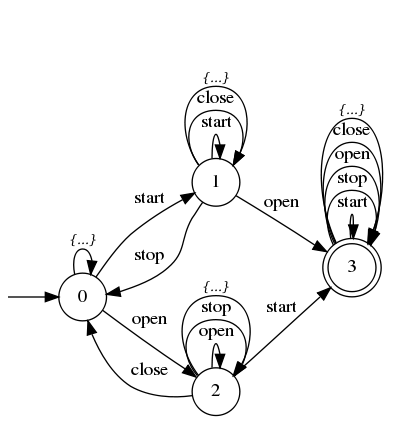
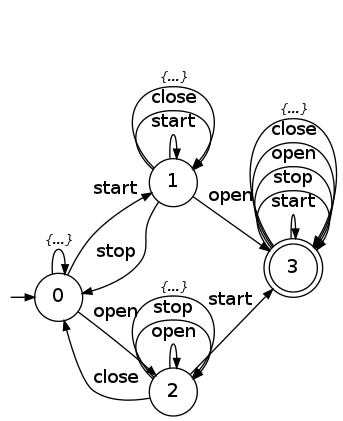
Cleaning of Chapter 2 cont.

Changed region(s): [[0.0292, 0.1544, 0.9913, 1.0]]

diff --git a/writing/src/2-framework/4-scenarios.tex b/writing/src/2-framework/4-scenarios.tex
@@ -10,27 +10,30 @@ We consider \emph{positive} scenarios, that are examples of behaviors that the s
 
 As in~\cite{Uchitel:2004}, MSCs are given a trace semantics. We will consider that a MSC defines a set of traces; the latter are expressed through a LTS. Two kinds of traces are considered: those from the local perspective of a single timeline and those from the global perspective of the complete MSC. We discuss each of these views in turn.
 
-As time in a MSC evolves from top to bottom, the order in which events are sent and received along a particular timeline defines a total order. Therefore, from the perspective of a single agent, a MSC defines one simple trace; such trace is a \emph{maximal} trace in that it includes all events in which the agent participates. This trace and all its suffixes can be captured by a LTS. For example, the traces defined by the timeline of the \artifact{Controller} in the MSC of Fig.~\ref{image:train-scenario-all-agents} are precisely captured by the LTS in Fig.~\ref{image:local-traces-lts}. Given a MSC $M$ and an agent $Ag$, we will denote such LTS by $M_{\downarrow Ag}$.
+As time in a MSC evolves from top to bottom, the order in which events are sent and received along a particular timeline defines a total order. Therefore, from the perspective of a single agent, a MSC defines one simple trace; such trace is a \emph{maximal} trace in that it includes all events in which the agent participates. This trace and all its suffixes can be captured by a LTS. Given a MSC $M$ and an agent $Ag$, we will denote such LTS by $M_{\downarrow Ag}$.
 
-\vspace{0.5cm}
-\begin{figure}[H]\centering
+For example, the traces defined by the timeline of the \artifact{Controller} in the MSC of Fig.~\ref{image:train-scenario-all-agents} are precisely captured by the LTS in Fig.~\ref{image:local-traces-lts}. 
+
+\begin{figure}\centering
 \scalebox{0.45}{\includegraphics{src/2-framework/images/local-trace}}
-\caption{LTS capturing the traces of the MSC in Fig.~\ref{image:train-scenario-all-agents} from the local point of view of the \artifact{Controller}.\label{image:local-traces-lts}}
+\caption{LTS capturing the traces of the MSC in Fig.~\ref{image:train-scenario-all-agents} from the local perspective of the \artifact{Controller} agent.\label{image:local-traces-lts}}
 \end{figure}
 
 When looking at traces from the perspective of the whole MSC, two possibilities might be envisaged.
 
-\noindent \textbf{Total event ordering} -- one might consider that a MSC defines a simple \emph{maximal} trace where all events appear according to the graphical top-down ordering. In our example, such trace would be
+\noindent \textbf{Total event ordering} -- One might consider that a MSC defines a simple \emph{maximal} trace where all events appear according to the graphical top-down ordering. In the example of Fig.~\ref{image:train-scenario-all-agents}, such trace would be
 
 \begin{center}\artifact{<start-signal, start, alarm-pressed, \ldots, open>}\end{center} 
 
-A MSC would then define a total order among all events. This leads to a simple and straightforward, yet limited, trace semantics for MSCs.
+A MSC would then define a total order among all events. This leads to a straightforward but limited trace semantics for MSCs.
 
-\noindent \textbf{Partial event ordering} -- when considering concurrent systems, a partial ordering among events appears more adequate~\cite{ITU:1996, Uchitel:2003}. Consider for example the events \artifact{start-signal} and \artifact{alarm-pressed} at the beginning of the MSC shown in Fig.~\ref{image:train-scenario-all-agents}. These two events capture unrelated message passing between different agents; therefore, they can not be considered strictly ordered over time -- e.g. the passenger might push the alarm button when the \artifact{start-signal} is already sent but before \artifact{start} has been propagated; or maybe even before \artifact{start-signal}; and so on. 
+\noindent \textbf{Partial event ordering} -- When considering concurrent systems, a partial ordering among events appears more adequate~\cite{ITU:1996, Uchitel:2003}. 
 
-To account for such situations, one has to consider that the traces defined by a MSC are \emph{linearizations} of the partial order among MSC events. In other words, linearizations capture all possible sequences of events that respect the total ordering defined by the timelines. We do not formalize the structure of Message Sequence Charts and their linearizations here, and refer to~\cite{Uchitel:2003} for such mathematical characterization. 
+Consider for example the events \artifact{start-signal} and \artifact{alarm-pressed} at the beginning of the MSC shown in Fig.~\ref{image:train-scenario-all-agents}. These two events capture unrelated message passing between different agents; therefore, they can not be considered strictly ordered over time -- e.g. the passenger might push the alarm button when the \artifact{start-signal} is already sent but before \artifact{start} has been propagated; or maybe even before \artifact{start-signal}; and so on. 
 
-The set of traces obtained from the local and global perspectives are related as follows:
+To account for such situations, one has to consider that the traces defined by a MSC are \emph{linearizations} of the partial order among MSC events \cite{Alur:2000}. In other words, linearizations capture all possible sequences of events that respect the total ordering defined by the timelines. We do not formalize the structure of Message Sequence Charts and their linearizations here, and refer to~\cite{Uchitel:2003} for such mathematical characterization. 
+
+Let $M$ denote a MSC. The set of traces it defines from the local and global perspectives are related as follows:
 \begin{align}
 \mathcal{L}_{total}(M) & \subseteq \mathcal{L}_{partial}(M) 
 \label{equation:msc-composition-1} \\
@@ -39,15 +42,15 @@ The set of traces obtained from the local and global perspectives are related as
 \end{align}
 
 \begin{itemize}
-\item Relation \ref{equation:msc-composition-1} states that the set of traces under a partial ordering includes those under a total ordering. Clearly, the model with partial ordering is more general than the one with total ordering. This means that everything that is true for the former is certainly true for the latter as well. Unless stated otherwise, we will therefore assume the general framework with partial ordering. In particular, we will no longer make the $partial$ and $total$ subscripting explicit when stating other language relations in the following sections.
+\item Relation (\ref{equation:msc-composition-1}) states that the set of traces under a partial ordering includes those under a total ordering. Clearly, the model with partial ordering is more general than the one with total ordering. This means that everything that is true for the former is also true for the latter. Unless stated otherwise, we will therefore assume the general framework with partial ordering. In particular, we will no longer make the $partial$ and $total$ subscripting explicit when stating other language relations in the following sections.
 
-\item Relation \ref{equation:msc-composition} provides a simple way of computing all linearizations of a MSC as an acyclic transition system through LTS composition. Such LTS is illustrated in Fig.~\ref{image:msc-linearizations} for the MSC in Fig.\ref{image:train-scenario-all-agents}. As shown there, the latter accepts six different linearizations due to the possible interleavings of its first four events. By construction, such LTS has only one initial state (the leftmost one) and only one terminating state (the rightmost one). This allows us to loosely refer to \emph{the} terminating state of a MSC with a precise underlying meaning; it refers to the LTS capturing its traces.
+\item Relation (\ref{equation:msc-composition}) provides a way of computing all linearizations of a MSC as an acyclic transition system through LTS composition. Such LTS is illustrated in Fig.~\ref{image:msc-linearizations} for the MSC in Fig.\ref{image:train-scenario-all-agents}. As shown there, the latter accepts six different linearizations due to the possible interleavings of its first four events. By construction, such LTS has only one initial state (the leftmost one) and only one terminating state (the rightmost one).
 \end{itemize}
 
-Note that the number of linearizations of a MSC is exponential in the number of events in the worst case. This is representative of distributed systems where agents generally behave asynchronously. Linearizations capture all possible interleavings of events in exactly the same way as LTS composition in Section~\ref{subsection:lts-composition}. In the worst case where agents do not synchronize at all, the number of interleavings is exponential. By focussing specifically on agent collaborations, MSCs often have only a few linearizations.
+Note that the number of linearizations of a MSC is exponential in the number of events in the worst case. This is representative of distributed systems where agents generally behave asynchronously. Linearizations capture all possible interleavings of events in exactly the same way as LTS composition in Section~\ref{subsection:lts-composition}. In the worst case where agents do not synchronize at all, the number of interleavings is exponential. In practice, as they specifically illustrate agent interactions, MSCs often have only a few linearizations.
 
 \begin{figure}\centering
-\scalebox{0.31}{\includegraphics{src/2-framework/images/linearizations}}
+\scalebox{0.29}{\includegraphics{src/2-framework/images/linearizations}}
 \caption{LTS capturing all event linearizations of the MSC in Fig.~\ref{image:train-scenario-all-agents}. Here, \artifact{alarm-pressed} is abbreviated as \artifact{a-pressed} and \artifact{sig.} stands for \artifact{signal}. \label{image:msc-linearizations}}
 \end{figure}
 
@@ -55,7 +58,8 @@ Note that the number of linearizations of a MSC is exponential in the number of 
 
 Positive MSCs capture examples of behavior that the system is expected to exhibit. In addition, it is often convenient to specify examples of behavior that the system may \emph{not} exhibit. Proscribed behaviors are illustrated through negative MSCs~\cite{Uchitel:2002, Uchitel:2004}. A negative MSC is a scenario whose last event is prohibited, as depicted by a crossed arrow below a dashed line. Fig.~\ref{image:train-negative-scenario} shows a negative scenario where the \artifact{Controller} may not open doors immediately after having started the train.
 
-\begin{figure}\centering
+\begin{figure}
+\centering
 \scalebox{0.75}{
   \includegraphics[trim=2mm 2mm 2mm 2mm, clip]{src/2-framework/images/train-negative-scenario}
 }
@@ -64,32 +68,41 @@ Positive MSCs capture examples of behavior that the system is expected to exhibi
 
 More precisely, a negative MSC is a pair $(P,e)$ where $P$ is a positive MSC and $e$ is a single event label. The positive scenario prefix $P$ is called the $precondition$ and $e$ the \emph{prohibited event}. The intuitive semantics is that, once the precondition has occurred from the system's initial state, $e$ may not be the very \emph{next} event in the system. 
 
-We make this semantics fully precise now. First, the precondition of a negative MSC $N = (P,e)$ is a positive MSC; it therefore defines a set of positive traces $\mathcal{L}^{+}$:
+We now make the trace semantics of negative MSCs precise. First, the precondition of a negative MSC $N = (P,e)$ is a positive MSC; it therefore defines a set of positive traces $\mathcal{L}^{+}$:
 \begin{align}
 \mathcal{L}^{+}(N) = \mathcal{L}(P)
 \end{align}
 
 As in previous section, we consider the general framework with partial ordering here.
 
-\noindent In addition, a negative MSC $N = (P,e)$ defines a set of negative traces $\mathcal{L}^{-}$:
+A negative MSC $N = (P,e)$ defines a set of negative traces $\mathcal{L}^{-}$:
 \begin{align}
-\mathcal{L}^{-}(N) &= \{~w.e \mid w \in mt(\mathcal{L}(P))~\}
+\mathcal{L}^{-}(N) &= \{~we \mid w \in mt(\mathcal{L}(P))~\}
 \end{align}
 \noindent where $mt(\mathcal{L})$ was seen to denote the set of maximal traces of the language $\mathcal{L}$ (see Section~\ref{section:background-lts-and-regular-languages}).
 
 Negative traces are thus maximal traces of the precondition concatenated with the label of the proscribed event. Note that the precondition must occur completely for the prohibited event to be taken into account. In other words, partial orderings between the prohibited event and those in the precondition are not considered. This is the intended meaning of the dashed line separating them~\cite{Uchitel:2004}. 
 
-Note that the set of negative traces cannot be captured through a LTS only. This is because $\mathcal{L}^{-}(N)$ is not prefix-closed (see Section~\ref{section:background-lts-and-regular-languages}). Negative scenarios are sometimes captured by a LTS extended with an error state~\cite{Uchitel:2004}. Alternatively, we may use a standard automaton that makes a distinction between accepting and non-accepting states. 
+Note that the negative language of a negative MSC cannot be captured through a pure LTS. This is because $\mathcal{L}^{-}(N)$ is not prefix-closed (see Section~\ref{section:background-lts-and-regular-languages}). Negative scenarios are sometimes captured by a LTS extended with an error state, see Fig.~\ref{image:negative-trace-lts} where the error state is depicted in black. Alternatively, we may use a standard automaton that makes a distinction between accepting and non-accepting states.
+
+\begin{figure}\centering
+\scalebox{0.45}{
+  \includegraphics[trim=1mm 1mm 1mm 1mm, clip]{src/2-framework/images/negative-trace-lts}
+}
+\caption{Negative traces for the negative MSC of Fig.~\ref{image:train-negative-scenario}, captured with a LTS extended with an error state\label{image:negative-trace-lts}}
+\end{figure}
 
 \subsection{Scenario collections\label{subsection:background-scenario-collections}}
 
 Systems are generally illustrated through multiple positive and negative scenarios. We will therefore consider scenario collections $Sc = (S^+,S^-)$ where $S^+$ and $S^-$ are finite, possibly empty, sets of positive MSCs and negative MSCs, respectively.
 
-The positive and negative languages captured by a scenario collection $Sc = (S^+,S^-)$ are defined via the union operator on languages, taking into account the fact that negative scenarios define positive traces in addition to negative ones:
-\begin{align}
+An important assumption when using scenario collections is that all scenarios, positive or negative, start in the same system state.
+
+Under this assumption, the trace semantics of a scenario collection is captured via the union operator on languages. A scenario collection $Sc = (S^+,S^-)$ defines a positive and a negative language. For the former, the definition below takes into account the fact that negative scenarios define positive traces in addition to negative ones:
+\begin{align*}
 \mathcal{L}^+(Sc) &= \bigcup_{P \in S^+} \mathcal{L}(P)~~\cup~~\bigcup_{N \in S^{-}} \mathcal{L}^{+}(N) \\
 \mathcal{L}^-(Sc) &= \bigcup_{N \in S^-} \mathcal{L}^{-}(N)
-\end{align}
+\end{align*}
 
 \subsection{Flowcharting scenarios in high-level message sequence charts\label{subsection:background-hmsc}}
 
@@ -103,43 +116,51 @@ A high-level Message Sequence Chart (hMSC) is a directed graph where each node r
 \caption{A high-level Message Sequence Chart for the train system.\label{image:train-hmsc}}
 \end{figure}
 
-The two following sections define the trace semantics for hMSCs. We first restrict to hMSCs composed of bMSCs only; then, taking finer-grained hMSCs into account. 
+The two following sections define the trace semantics of hMSCs. We first restrict to hMSCs composed of bMSCs only before taking finer-grained hMSCs into account. 
 
 \subsubsection*{hMSCs composed from bMSCs only\label{subsubsection:hMSC-bMSC-only}}
 
 A trace semantics for hMSCs provides an answer to the question: \emph{what traces are captured by a hMSC?} This apparently simple question has a fairly complex answer. The reasons are manifold; we summarize here then slightly extend the characterization provided in~\cite{Uchitel:2004}.
 
-\noindent \textbf{Bounding hMSCs} -- Some hMSCs do not define regular languages, as explained in \cite{Henriksen:2000}; therefore they have sets of traces that cannot be specified through a LTS. Our framework must therefore be restricted to regular hMSCs. Under a total ordering of events inside bMSCs, hMSCs are regular. Under a partial ordering, a sufficient condition for a hMSC to be regular is that it does not contain a cycle in which two disjoint sets of agents interact independently of each other. We will focus on such \emph{bounded} hMSCs in the sequel.
+\noindent \textbf{Bounding hMSCs} -- As explained in \cite{Henriksen:2000}, some hMSCs do not define regular languages. In that case, they have sets of traces that cannot be captured by a LTS. Our framework must therefore be restricted to regular hMSCs. Under a total ordering of events inside bMSCs, hMSCs are regular. Under a partial ordering, a sufficient condition for a hMSC to be regular is that it does not contain a cycle in which two disjoint sets of agents interact independently of each other. We will make the assumption of \emph{bounded} hMSCs in the sequel.
 
 \noindent \textbf{Composing bMSCs} -- In addition to the partial or total ordering of events in bMSCs, two possibilities arise as to how a system evolves from a bMSC to another inside a hMSC. The first one, called \emph{strong sequential composition}, assumes that all agents wait until all events of a bMSC have occurred before moving to the next one. This means that there is an implicit synchronization scheme used by the agents to know when a scenario has been completed. The other one, called \emph{weak sequential composition}, allows an agent to move from a bMSC to another one without having to synchronize with the other agents. 
 
 In view of the independence between the assumptions of partial/total event ordering and weak/strong sequential composition, four combinations actually exist. To keep things simple enough and avoid bizarre concurrency models\footnote{in particular, such models are very sensitive to the decomposition of a hMSC into bMSCs. For example splitting a bMSC node into smaller bMSCs might change the set of accepted traces of the hMSC.}, we do not consider partial (resp. total) ordering with strong (resp. weak) sequential composition. In the sequel, therefore, strong (resp. weak) sequential composition will entail total (resp. partial) ordering of MSC events. In the sequel, we will refer to this as the \emph{stable composition} hypothesis. 
 
-\noindent \textbf{Trace semantics} -- Under the assumption of bounded hMSC with stable composition, the trace analysis for hMSCs is very similar to MSCs. It leads to language relations similar to the ones given for the latter in Section~\ref{subsection:background-positive-scenarios} -- see relation (\ref{equation:msc-composition}) in particular:
+\noindent \textbf{Trace semantics} -- Under the assumption of bounded hMSC with stable composition, the trace analysis for hMSCs is very similar to MSCs. It leads to language relations similar to the ones given for the latter in Section~\ref{subsection:background-positive-scenarios} -- see (\ref{equation:msc-composition-1}) and (\ref{equation:msc-composition}) in particular:
 \begin{align}
 \mathcal{L}_{strong}(H) & \subseteq \mathcal{L}_{weak}(H) \\
 \mathcal{L}_{weak}(H) & \subseteq \mathcal{L}(H_{\downarrow Ag_1} \parallel \ldots \parallel H_{\downarrow Ag_n})
 \label{equation:hsmc-traces-by-agent-composition}
 \end{align}
 
-The sets of traces $\mathcal{L}_{strong}(H)$ and $\mathcal{L}_{weak}(H)$ result from the scenarios ``produced'' by the hMSC. Consider a finite path in the hMSC. Concatenating the bMSCs along this path yields a single MSC. 
+The sets of traces $\mathcal{L}_{strong}(H)$ and $\mathcal{L}_{weak}(H)$ result from the scenarios that can be ``produced'' by the hMSC under strong and weak sequential composition, respectively. Such ``production'' simply results from the concatenation of bMSCs alongs paths admissible by the hMSC.
 
-For example, concatenating \artifact{Starting train}, \artifact{Pressing alarm} and \artifact{Stopping \& Opening the doors} in the hMSC of Fig.~\ref{image:train-hmsc} leads to the MSC of Fig.~\ref{image:train-scenario-all-agents}. 
+For example, concatenating the bMSCs \emph{Starting train}, \emph{Pressing alarm} and \emph{Stopping} \& \emph{Opening the doors} in the hMSC of Fig.~\ref{image:train-hmsc} leads to the MSC of Fig.~\ref{image:train-scenario-all-agents}. 
 
-As introduced in Section~\ref{subsection:background-positive-scenarios}, such MSC $M$ defines the set of traces $\mathcal{L}_{total}(M)$ and $\mathcal{L}_{partial}(M)$. To define the traces produced by a hMSC $H$, we need to consider all such possible MSCs: 
-\begin{align}
+Such MSC $M$ defines the set of traces $\mathcal{L}_{total}(M)$ and $\mathcal{L}_{partial}(M)$, see Section~\ref{subsection:background-positive-scenarios}. The trace semantics of a hMSC $H$ is defined in terms of all possible MSCs that it produces: 
+\begin{align*}
 \mathcal{L}_{strong}(H) &= \bigcup_{M \in H} \mathcal{L}_{total}(M) \\
 \mathcal{L}_{weak}(H) &= \bigcup_{M \in H} \mathcal{L}_{partial}(M)
-\end{align}
+\end{align*}
 \noindent where $M \in H$ means ``the MSC $M$ can be produced by a path in $H$''. The language $\mathcal{L}_{weak}$ corresponds to the notion of \emph{trace model of a hMSC} in~\cite{Uchitel:2004}.
 
-One can consider another way of computing the set of traces defined by a hMSC. In this alternative way, the local perspective of the agent timelines is taken into account, similarly to what has been done for MSCs. This leads to the rightmost part of the relations between hMSC languages in~(\ref{equation:hsmc-traces-by-agent-composition}). There, hMSC traces are computed as the composition of local agent traces $H_{\downarrow Ag_i}$. The composition of such LTS for each agent corresponds to the notion of \emph{minimal architecture model} in~\cite{Uchitel:2004}. We denote it by $\mathcal{L}_{arch}(H)$:
+Another way of defining the set of traces of a hMSC consists in considering the local perspective of the agent timelines. This is similar to what has been done for MSCs in relation (\ref{equation:msc-composition}) and leads to the right term in~(\ref{equation:hsmc-traces-by-agent-composition}). There, hMSC traces are computed as the composition of local agent traces $H_{\downarrow Ag_i}$ (see below). The composition of such LTS for each agent corresponds to the notion of \emph{minimal architecture model} in~\cite{Uchitel:2004}. We denote it by $\mathcal{L}_{arch}(H)$:
 \begin{align}
 \mathcal{L}_{arch}(H) &= \mathcal{L}(H_{\downarrow Ag_1} \parallel \ldots \parallel H_{\downarrow Ag_n})
 \end{align}
 
-An algorithm for synthesizing the LTS modeling $\mathcal{L}_{arch}(H)$ may be found in~\cite{Uchitel:2004}. For a given agent $Ag_{i}$, the LTS $H_{\downarrow Ag_i}$ is synthesized by connecting the LTSs $M_{\downarrow Ag_i}$ corresponding to each bMSC $M$ with $\tau$ transitions, according to their possible continuations given by hMSC edges. This construction is illustrated in Fig.~\ref{image:train-controller-synthesis} for the hMSC of Fig.~\ref{image:train-hmsc} and the \artifact{Controller} agent. The resulting LTS can be further simplified by removing $\tau$ transitions and minimizing the LTS.  Thanks to the simplicity of the model with strong sequential composition, $\mathcal{L}_{strong}(H)$ can be computed in a very similar way. $\mathcal{L}_{weak}(H)$ is much harder to model as a LTS because the sequencing and synchronization of bMSCs must be constrained to fit the semantics. A synthesis algorithm can however be found in~\cite{Uchitel:2004}.
+To sum up, defining the trace semantics of a hMSC $H$ leads to considering three sets of traces, namely $\mathcal{L}_{strong}(H)$, $\mathcal{L}_{weak}(H)$ and $\mathcal{L}_{arch}(H)$. The former two consider the global perspective of the hMSC whereas the latter consider the local perspective of agent timelines. Moreover, $\mathcal{L}_{strong}(H)$ assumes a strong sequential composition of bMSC nodes with total event ordering whereas $\mathcal{L}_{weak}(H)$ and $\mathcal{L}_{arch}(H)$ both assume weak sequential composition and partial ordering. These three languages are related as follows:
+\begin{align*}
+&\mathcal{L}_{strong}(H) \subseteq \mathcal{L}_{weak}(H) \subseteq \mathcal{L}_{arch}(H)
+\end{align*}
 
+In practice, compositional algorithms allow capturing these three languages with LTS:
+\begin{itemize}
+\item An algorithm for synthesizing a LTS for $\mathcal{L}_{arch}(H)$ may be found in \cite{Uchitel:2003}. For a given agent $Ag_{i}$, the LTS $H_{\downarrow Ag_i}$ is synthesized by connecting the LTSs $M_{\downarrow Ag_i}$ corresponding to each bMSC $M$ with $\tau$ transitions, according to their possible continuations given by hMSC edges. 
+
+This construction is illustrated in Fig.~\ref{image:train-controller-synthesis} for the hMSC in Fig.~\ref{image:train-hmsc} and the \artifact{Controller} agent. The resulting LTS can be further simplified by removing $\tau$ transitions and minimizing the result.
 \vspace{0.4cm}
 \begin{figure}[H]\centering
 \scalebox{0.85}{
@@ -148,10 +169,15 @@ An algorithm for synthesizing the LTS modeling $\mathcal{L}_{arch}(H)$ may be fo
 \caption{Synthesis of the \emph{Controller} LTS from the hMSC of Fig.~\ref{image:train-hmsc}.\label{image:train-controller-synthesis}}
 \end{figure}
 
+\item Thanks to the simplicity of the model with strong sequential composition, $\mathcal{L}_{strong}(H)$ can be captured in a similar way. The linear event trace defined by each MSC is used instead of $M_{\downarrow Ag_i}$ in the algorithm above.
+
+\item The synthesis of a LTS for $\mathcal{L}_{weak}(H)$ is more complex because the sequencing and synchronization of bMSCs must be constrained to fit the semantics. A synthesis algorithm can be found in~\cite{Uchitel:2004}.
+\end{itemize}
+
 An important difference should be noted among the relations between MSC languages and those on hMSC languages. For similarity with hMSCs, let $\mathcal{L}_{arch}(M)$ denote an architecture model for MSCs:
-\begin{align}
+\begin{align*}
 \mathcal{L}_{arch}(M) = \mathcal{L}(M_{\downarrow Ag_1}\parallel\ldots\parallel M_{\downarrow Ag_n})
-\end{align}
+\end{align*}
 
 \noindent For a MSC $M$ and a hMSC $H$ the language relations are, respectively:
 \begin{align}
@@ -161,7 +187,7 @@ An important difference should be noted among the relations between MSC language
 
 Note the equality between $\mathcal{L}_{partial}(M)$ and $\mathcal{L}_{arch}(M)$ in (\ref{relation:msc-total-language}) and the set inclusion between $\mathcal{L}_{weak}(H)$ and $\mathcal{L}_{arch}(H)$ in (\ref{relation:hmsc-strong-language}). 
 
-The traces in $\mathcal{L}_{arch}(H) \setminus \mathcal{L}_{weak}(H)$ capture the set of \emph{implied} scenarios of a hMSC specification~\cite{Alur:2000, Uchitel:2004}. Implied scenarios occur when a system is designed globally while implemented component-wise. They capture traces that follow different paths in the hMSC when projected on individual agent timelines. Implied scenarios will be mostly ignored in the thesis; we further discuss this issue in Chapter~\ref{chapter:discussion}.
+The traces in $\mathcal{L}_{arch}(H) \setminus \mathcal{L}_{weak}(H)$ capture the set of \emph{implied} scenarios of a hMSC specification~\cite{Alur:2000, Uchitel:2004}. Implied scenarios occur when a system is designed globally while implemented component-wise. They capture traces that follow different paths in the hMSC when projected on individual agent timelines. Implied scenarios will be mostly ignored in the thesis; we further discuss them in Chapter~\ref{chapter:discussion}.
 
 \subsubsection*{hMSCs composed from finer-grained hMSCs\label{subsubsection:hMSC-with-sub-hMSC}}
 
@@ -169,11 +195,11 @@ A hMSC node may refer to a finer-grained hMSC instead of a bMSC. To take this in
 
 Under those assumptions, it is fairly easy to unfold a compound hMSC into another where all refined nodes are basic MSCs. The trace semantics remains unchanged and is defined in terms of the latter ``flat'' hMSC. 
 
-In practice, this flat hMSC must not be explicitly constructed when the LTS for $\mathcal{L}_{arch}$ is synthesized. The LTSs $H_{\downarrow Ag_i}$ for finer-grained hMSCs meeting our constraints have only one initial state and only one terminating state; this allows them to be connected with $\tau$ transitions in the same way as the LTSs $M_{\downarrow Ag_i}$. A similar argument applies for $\mathcal{L}_{strong}$.
+In practice, this flat hMSC must not be explicitly constructed when the LTS for $\mathcal{L}_{arch}$ is synthesized. Under our assumptions, the LTSs capturing the traces of finer-grained hMSCs have only one initial state and only one terminating state. Therefore, they can connected with $\tau$ transitions in the same way as the LTSs $M_{\downarrow Ag_i}$ in the synthesis algorithm of previous section. A similar argument applies for $\mathcal{L}_{strong}$.
 
 \subsection{Consistency between the scenario and state machine views\label{subsection:background-scenario-consistency}}
 
-The trace semantics of scenarios can be explicitly related to agent and system behaviors as the latter are captured with LTS (see Section~\ref{section:background-state-machines}). This section defines consistency rules between those two views, and discusses the similarity between relations (\ref{equation:system-composition}), (\ref{equation:msc-composition}) and (\ref{equation:hsmc-traces-by-agent-composition}).
+The trace semantics of scenarios can be explicitly related to the one of agent and system state machines. This section defines consistency rules between those two views, thereby explaining the similarity between relations (\ref{equation:system-composition}), (\ref{equation:msc-composition}) and (\ref{equation:hsmc-traces-by-agent-composition}).
 
 \subsubsection*{Positive MSCs}
 
@@ -215,12 +241,11 @@ Conditions (\ref{condition:consistent-system-view}) and (\ref{condition:consiste
 A set $S^+$ of positive scenarios and a set $S^-$ of negative scenarios are consistent with each other if there exists a system which is consistent with them taken as a collection $Sc = (S^+,S^-)$. 
 
 A necessary condition for a scenario collection $Sc = (S^+,S^-)$ to be consistent is the disjointness of positive and negative traces:
-
 \begin{equation}
 \mathcal{L}^+(Sc) \cap \mathcal{L}^-(Sc) = \emptyset
 \end{equation}
 
-This condition is not sufficient however as structural consistency is not taken into account.
+This condition is not sufficient, however, as structural consistency is not guaranteed.
 
 \subsubsection*{High-level MSCs}
 
@@ -234,7 +259,7 @@ where $\mathcal{L}_{arch}(H) = \mathcal{L}(H_{\downarrow Ag_1} \parallel \ldots 
 
 These conditions are the counterpart of those given previously for MSCs. They have a similar interpretation, \emph{mutatis mutandis}. 
 
-It is convenient to distinguish between a hMSC that describes all behaviors of a system and one that only illustrates a subset of them. This leads to the notion of hMSC completeness. 
+Last, it is sometimes convenient to distinguish between a hMSC that describes all behaviors of a system and one that only illustrates a subset of them. This leads to the notion of hMSC completeness. 
 
 A hMSC $H$ is \emph{complete} for a system $\system$ if it is consistent with it and defines the same language, that is, if the following condition holds:
 \begin{align}

diff --git a/writing/src/2-framework/6-goals.tex b/writing/src/2-framework/6-goals.tex
@@ -22,32 +22,30 @@ A system history is commonly seen in LTL as a temporal sequence of system states
 
 To integrate the state-based and event-based paradigms, we will use a flavor of LTL known as Fluent Linear Temporal Logic (FLTL), where atomic propositions are fluents~\cite{Giannakopoulou:2003}. FLTL proves convenient for specifying state-based temporal logic properties over the event-based operational model given by scenarios and state machines. 
 
-For example, the safety goal ``\emph{Doors shall remain closed while the train is moving}'' of our running example can be formalized in terms of the $Moving$ and $DoorsClosed$ fluents, defined in the previous section, as follows:
-
+For example, the safety goal ``\emph{Doors shall remain closed while the train is moving}'' of our running example can be formalized in terms of the $Moving$ and $DoorsClosed$ fluents, defined in the previous section:
 \begin{center}
 \artifact{Maintain[DoorsClosed While Moving]} = $\square(Moving \rightarrow DoorsClosed)$
 \end{center}
 
 Properties formalized in temporal logic are commonly classified as \emph{liveness} or \emph{safety} properties~\cite{Alpern:1986}. Liveness refers to ``\emph{something good will eventually happen}'' whereas safety refers to  ``\emph{something bad may never happen}''. The thesis will focus on safety properties for the following reasons:
-
 \begin{itemize}
-\item Reasoning about liveness requires considering the acceptance of infinite execution traces; this is outside the expressiveness of LTSs and regular languages. In contrast, if ``something bad'' happens it must do so after a finite sequence of events, and is irremediable~\cite{Alpern:1986, Giannakopoulou:1999}.
+\item Reasoning about liveness requires considering the acceptance of infinite execution traces; this is outside the expressiveness of our LTS characterization and regular languages in general. In contrast, if ``something bad'' happens it must do so after a finite sequence of events, and is irremediable~\cite{Alpern:1986, Giannakopoulou:1999}.
 \item The thesis focusses on requirements engineering models. To be realizable by agents, the properties assigned to them must be bounded as \emph{maintain} or \emph{bounded achieve} specifications \cite{Letier:2002}; these correspond to safety properties.  
 \end{itemize}
 
 \subsection{Consistency between the behavioral and intentional views\label{subsection:background-goals-consistency}}
 
-Consider a safety property $G$ and a system $\system$. Let $\mathcal{L}^{-}(G)$ denote the set of system traces violating the property. The system and the property are consistent if and only if the following condition holds:
+Consider a safety property $G$ and a system $\system$. Let $\mathcal{L}^{-}(G)$ denote the set of event traces violating the property and $\mathcal{L}^{+}(G)$ those not violating it. We discuss how these languages can be captured with automata in the following section.
 
+The system $S$ and the property $G$ are consistent if and only if the following condition holds:
 \begin{equation}
 \mathcal{L}(Ag_1 \parallel \ldots \parallel Ag_n) \cap \mathcal{L}^{-}(G) = \emptyset
 \label{equation:state-machines-and-goals-consistency}
 \end{equation}
 
-The above relation requires the system to exclude any trace violating the property. This relation is the one used in model checking, provided that $\mathcal{L}^{-}(G)$ amounts to $\mathcal{L}(\neg G)$ \cite{Clarke:1989}. In other words, $\mathcal{L}^{-}(G)$ actually captures the set of traces satisfying the negation of the safety property. 
+The above relation requires the system to exclude any trace violating the property. This relation is the one commonly used in model checking, provided that $\mathcal{L}^{-}(G)$ actually amounts to $\mathcal{L}^{+}(\neg G)$ \cite{Clarke:1989}. In other words, $\mathcal{L}^{-}(G)$ actually captures the set of traces satisfying the negation of the safety property.
 
-Safety goals and scenarios are linked by the following consistency rules:
-
+We also consider consistency rules between goals and scenarios, as follows:
 \begin{itemize}
 \item Behaviors illustrated in positive scenarios may not violate safety goals. A more formal expression of this depends on the concrete form of scenario specification (scenario collection or hMSC) and on hypotheses about event ordering and weak or strong bMSC synchronization. It is similar to relation (\ref{equation:state-machines-and-goals-consistency}), \emph{mutatis mutandis}.
 \item A negative scenario $N$ \emph{illustrates} the violation of a safety goal, say $G$, if the following condition holds:
@@ -59,9 +57,9 @@ Safety goals and scenarios are linked by the following consistency rules:
 
 \subsection{Property and tester automata\label{subsection:background-property-and-tester-automata}}
 
-The sets of traces $\mathcal{L}^{+}(G)$ and $\mathcal{L}^{-}(G)$ can be specified through automata. The former is called a \emph{property} automaton~\cite{Letier:2005, Letier:2008} while the latter is called a \emph{tester} automaton~\cite{Giannakopoulou:2003}.
+For a safety property $G$, the sets of traces $\mathcal{L}^{+}(G)$ and $\mathcal{L}^{-}(G)$ can be specified through automata. The former correspond to the notion of \emph{property} automaton in \cite{Letier:2005, Letier:2008} while the latter corresponds to the one of \emph{tester} automaton in \cite{Giannakopoulou:2003}. We consider the construction of each of them in turn.
 
-The negative language $\mathcal{L}^{-}(G)$ cannot be captured with a pure LTS as it is not prefix-closed. For example, the trace \artifact{<start open>} violates the safety goal for the train system; it thus belongs to $\mathcal{L}^{-}(Maintain[DoorsClosed While Moving])$. However, \artifact{<start>} does not violate it (yet). 
+The negative language $\mathcal{L}^{-}(G)$ cannot be captured with a pure LTS as it is not prefix-closed. For example, the trace \artifact{<start open>} violates the safety goal for the train system; it thus belongs to $\mathcal{L}^{-}(Maintain[\mbox{\emph{DoorsClosed While Moving}}])$. However, \artifact{<start>} does not violate it (yet). 
 
 On the other hand, a safety property can only be violated after a finite trace, and remains violated after that; $\mathcal{L}^{-}(G)$ is thus suffix-closed. 
 

diff --git a/writing/src/2-framework/5-fluents.tex b/writing/src/2-framework/5-fluents.tex
@@ -33,13 +33,13 @@ For example, the fluent \emph{Moving} is \emph{true} after the trace \artifact{<
 As prefixes of traces are also traces, we may also think in terms of fluent values \emph{along} traces. This is illustrated in Fig.~\ref{image:fluent-values-along-a-trace} where the values of the two fluents introduced above are shown in the states of a LTS capturing a typical event trace for the train system. 
 
 \begin{figure}[H]\centering
-\scalebox{0.45}{\includegraphics{src/2-framework/images/decorating-trace}}
+\scalebox{0.41}{\includegraphics{src/2-framework/images/decorating-trace}}
 \caption{LTS annotated with fluent values along a single trace (\artifact{Closed} is an abbreviate for \artifact{DoorsClosed}).\label{image:fluent-values-along-a-trace}}
 \end{figure}
 
 As the example suggests, for a set of fluents $\Phi$, an event trace yields an interpretation over $2^\Phi$, that is, an assignment of a Boolean value to each fluent in $\Phi$. We will call it \emph{fluent value assignment} throughout the thesis. 
 
-For example, the maximal trace Fig. \ref{image:fluent-values-along-a-trace} yields the following fluent value assignment:
+For example, the maximal trace \artifact{<start alarm stop open>} in Fig.~\ref{image:fluent-values-along-a-trace} yields the following fluent value assignment:
 \begin{center}
 \{\emph{Moving} $=$ \emph{false}, \emph{DoorsClosed} $=$ \emph{false}\}
 \end{center}
@@ -48,20 +48,24 @@ For example, the maximal trace Fig. \ref{image:fluent-values-along-a-trace} yiel
 
 We can similarly annotate the states of any LTS. The generalization consists in considering that a LTS state may be reached by a set of traces instead of a single one. Annotations therefore become \emph{sets} of fluent assignments, that is elements of the powerset $\mathcal{P}(2^\Phi)$ over $2^\Phi$. 
 
-In particular, a state might be reached by a trace yielding a fluent \emph{true}, while another trace reaching it would yield the same fluent \emph{false}. Note that even in presence of a possibly infinite number of traces, the set of all possible annotations is itself finite. $\mathcal{P}(2^\Phi)$ actually coincides with the set of propositional formulas over fluents. It appears convenient to consider state annotations as such formulas, where \emph{false} then corresponds to an empty set of fluent assignments (i.e. an unreachable state) and \emph{true} corresponds to the set of all possible assignments. Such state annotations will be called \emph{state invariants}; they encode assertions that always hold when the LTS state is visited. Fig.~\ref{image:fluent-values-along-multiple-traces} shows an example of LTS annotation with state invariants.
+In particular, a state might be reached by a trace yielding a fluent \emph{true}, while another trace reaching it would yield the same fluent \emph{false}. Note that even in presence of a possibly infinite number of traces, the set of all possible annotations is itself finite. 
+
+$\mathcal{P}(2^\Phi)$ actually coincides with the set of propositional formulas over fluents. In fact, it appears convenient to consider state annotations as such formulas, where \emph{false} then corresponds to an empty set of fluent assignments (i.e. an unreachable state) and \emph{true} corresponds to the set of all possible assignments. Such state annotations will be called \emph{state invariants}; they encode assertions that always hold when the LTS state is visited. 
+
+Fig.~\ref{image:fluent-values-along-multiple-traces} shows an example of LTS annotated with state invariants.
 
 \begin{figure}[H]\centering
-\scalebox{0.45}{\includegraphics{src/2-framework/images/decorating-lts}}
+\scalebox{0.41}{\includegraphics{src/2-framework/images/decorating-lts}}
 \caption{Fluent values along multiple traces (\artifact{Closed} is an abbreviate for \artifact{DoorsClosed}).\label{image:fluent-values-along-multiple-traces}}
 \end{figure}
 
-A fixpoint algorithm for decorating LTS with fluent value assignments appeared in~\cite{Damas:2005}. This algorithm was generalized for generating weakest state invariants in \cite{Damas:2009, Damas:2011}. Very roughly, it consists in annotating the LTS initial state with an initial invariant according to fluent initial values; invariants are then propagated along LTS transitions, according to fluent definitions, and accumulated in states through Boolean disjunction, until a fixpoint is reached. 
+A fixpoint algorithm for decorating LTS with fluent value assignments appeared in~\cite{Damas:2005}. This algorithm was generalized for generating weakest state invariants in \cite{Damas:2009}. Very roughly, it consists in annotating the LTS initial state with an initial invariant according to fluent initial values; invariants are then propagated along LTS transitions, according to fluent definitions, and accumulated in states through Boolean disjunction, until a fixpoint is reached. 
 
 Binary decision diagrams~\cite{Bryant:1986} can be used for concisely encoding and efficiently manipulating Boolean formulas (see Chapter~\ref{chapter:tool-support}). This algorithm has been further generalized in~\cite{Damas:2011} for handling other kinds of decorations than state invariants.
 
 \subsection{Integrating fluents in multi-view models}
 
-Fluents provide a general mechanism for integrating event-based and state-based specifications. We may thus them for integrating agents, their state machines, and scenarios. The next section extends such integration by introducing fluent-based goals and domain properties.
+Fluents provide a general mechanism for integrating event-based and state-based specifications. We will use them for integrating agents, their state machines, and scenarios. The next section extends such integration by introducing fluent-based goals and domain properties.
 
 We will restrict our use of fluents to the ones that are monitorable and controllable by the agents forming the system~\cite{Letier:2002}. 
 

diff --git a/writing/src/2-framework/3-state-machines.tex b/writing/src/2-framework/3-state-machines.tex
@@ -4,9 +4,9 @@ In our framework, the behavior of an agent will be modeled by a specific kind of
 
 A LTS is made of a set of states and a set of transitions between them (see Fig.~\ref{image:framework-start-stop}). Each transition has an \emph{event} label -- sometimes called \emph{symbol} or \emph{action} label. A state is labeled with a number to distinguish it from other states. An \emph{initial state} is designated graphically by an incoming arrow with no source state (e.g. state 0 in Fig. \ref{image:framework-start-stop}). 
 
-\begin{figure}[H]
-\centering\scalebox{0.60}{
-  \includegraphics*[clip]{src/2-framework/images/start-stop}}
+\begin{figure}
+\centering\scalebox{0.50}{
+  \includegraphics*[clip]{src/2-framework/images/start-stop-lts}}
   \caption{A Labeled Transition System for an \artifact{Engine} agent\label{image:framework-start-stop}.}
 \end{figure}
 
